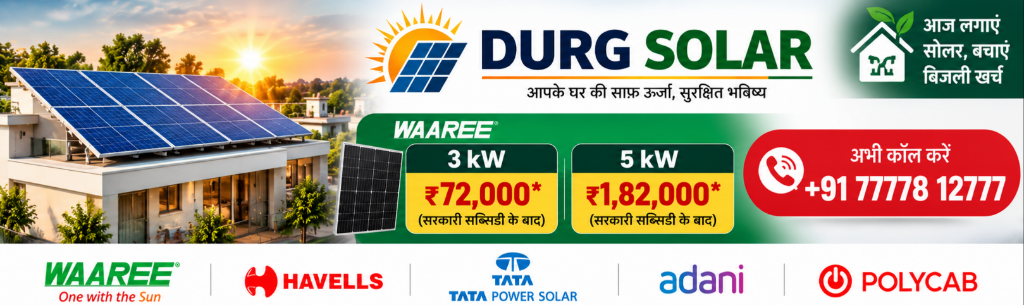
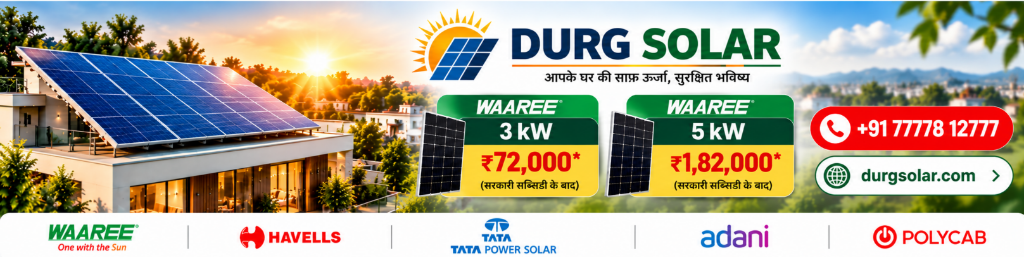
feat(ad): replace Durg Solar advertisement with newly approved 5:1 creative

diff --git a/src/features/jd-live/components/BroadcastControlBar.tsx b/src/features/jd-live/components/BroadcastControlBar.tsx
@@ -16,17 +16,19 @@ export function BroadcastControlBar() {
   return (
     <div className="jdl-ad-banner" role="region" aria-label="Durg Solar Advertisement">
       <a
-        href="tel:+917777812777"
+        href="https://durgsolar.com"
+        target="_blank"
+        rel="noopener noreferrer"
         className="jdl-ad-banner__link"
-        title="Durg Solar: Waaree 3 kW ₹72,000* | 5 kW ₹1,82,000* — Call +91 77778 12777"
+        title="Durg Solar: Waaree 3 kW ₹72,000* | 5 kW ₹1,82,000* — Call +91 77778 12777 | durgsolar.com"
         aria-label="Durg Solar Advertisement"
       >
         <img
           src="/jd-live/durg-solar-creative.png"
-          alt="Durg Solar: Waaree 3 kW ₹72,000*, 5 kW ₹1,82,000*, Call +91 77778 12777"
+          alt="Durg Solar: Waaree 3 kW ₹72,000*, 5 kW ₹1,82,000*, Call +91 77778 12777, durgsolar.com"
           className="jdl-ad-banner__img"
           width={1024}
-          height={305}
+          height={257}
           loading="eager"
           decoding="async"
         />

diff --git a/src/features/jd-live/styles/studio.css b/src/features/jd-live/styles/studio.css
@@ -511,7 +511,7 @@
 .jdl-ad-banner__img {
   width: 100%;
   height: auto;
-  aspect-ratio: 1024 / 305;
+  aspect-ratio: 1024 / 257;
   object-fit: contain;
   display: block;
   border: 0;
